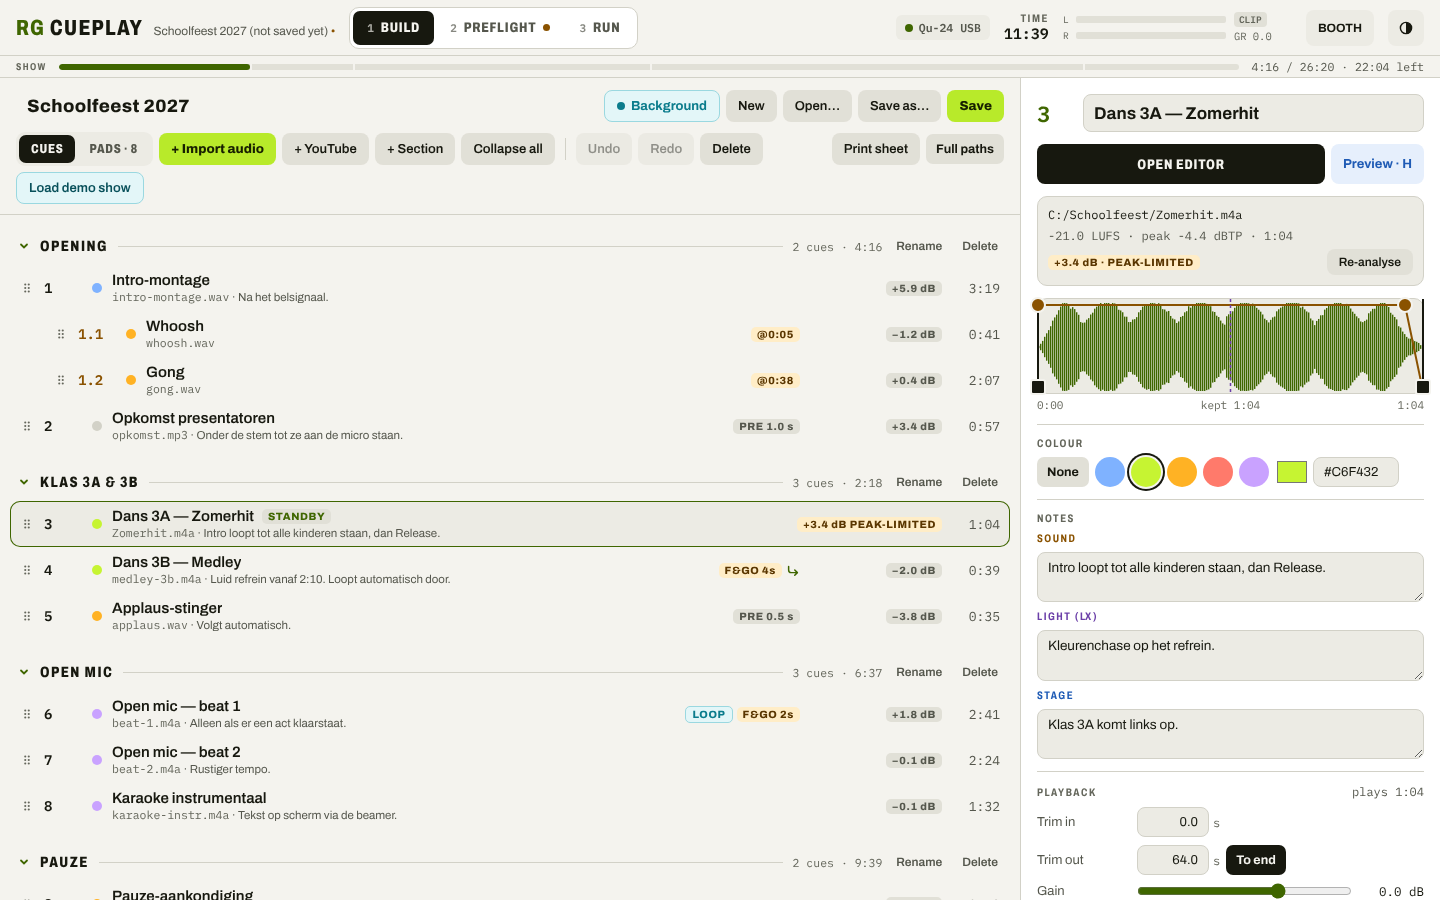
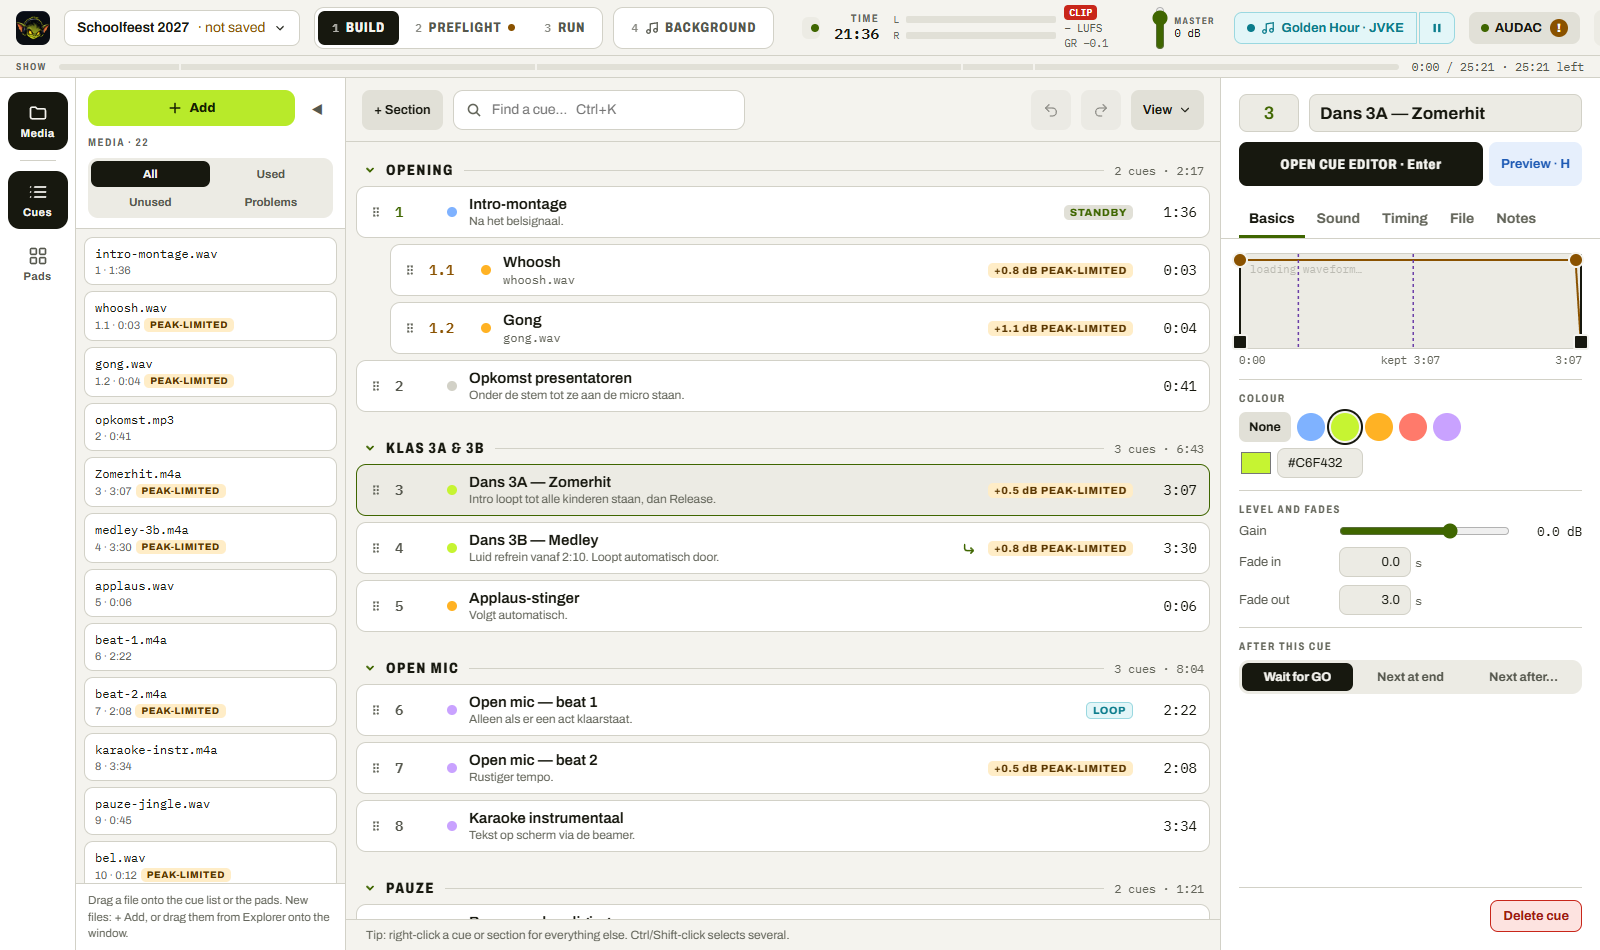
README for people who'll use it: what it does, a tour with fresh screenshots, keys, download link
Screenshots retaken from the current UI (browser mode, demo show, English); the October 26 set showed the old layout
and wasn't used anywhere. Developer notes moved below; release text matches 1.0 (builds are marked latest).
CLAUDE.md: Run keys are rebindable (RunView uses the keymap), inspector has a File tab.

diff --git a/README.md b/README.md
@@ -1,89 +1,174 @@
-# StageGremlin
+<p align="center">
+  <picture>
+    <source media="(prefers-color-scheme: dark)" srcset="docs/brand/stagegremlin-lockup-dark.png">
+    <img src="docs/brand/stagegremlin-lockup-light.png" alt="StageGremlin" width="520">
+  </picture>
+</p>
 
-A QLab-style cue player for Windows, made for school shows: build the show at home, check the rig in
-Preflight, and run it from the booth with the spacebar as GO. One stereo feed to the mixer (Qu-24 over USB).
+<p align="center">
+  <b>A cue player for school shows on Windows.</b><br>
+  Build the show at home, check the rig before the doors open, run it from the booth with the spacebar as GO.
+</p>
 
-- Spec: [`docs/brief.md`](docs/brief.md) (exported from the online brief)
-- How the parts talk: [`docs/ipc.md`](docs/ipc.md)
-- Notes for Claude Code: [`CLAUDE.md`](CLAUDE.md)
+<p align="center">
+  <a href="https://github.com/RareGoudvis/StageGremlin/releases/latest"><b>Download the latest build</b></a>
+  · Windows 10/11 · no admin rights needed
+</p>
 
-## First time on a Windows PC (once)
+![Run: what plays now, what's next, GO](docs/screenshots/run.png)
 
-You need admin rights for these installs, so do this on your home PC, not the school laptop.
+StageGremlin plays a list of sound cues, one GO at a time, into one stereo feed to the mixing desk (an Allen & Heath
+Qu-24 over USB at our school; any Windows output works). It's made for the people who actually run school shows:
+a teacher who set the show up, and on the night maybe a pupil or a parent who has never touched a sound desk.
 
-1. **Rust**: install from <https://rustup.rs> (`rustup-init.exe`, accept the defaults). When it asks for the
-   *Visual Studio C++ Build Tools*, let it install them (workload "Desktop development with C++").
+## What it does
+
+- **Every song equally loud.** Each file is measured when you add it (EBU R128) and matched to −14 LUFS, without
+  ever pushing a peak over −1 dBTP. A limiter on the output catches the rest.
+- **GO is the spacebar.** Esc stops everything with a fade; Esc twice is Panic. A GO lock-out (0.3–10 s) stops a
+  nervous double tap from skipping a cue.
+- **Cues that do things by themselves**: pre-wait, "next at end" or "next after n seconds", cues attached to a moment
+  inside another cue, play 1–5 times or loop, vamps (loop a part until you release it), and per cue what happens to
+  what's already playing: play on, stop, fade out or crossfade.
+- **Pads** for applause, a gong, a drum roll: keys 1–9 and 0, one-shot, toggle or loop.
+- **Fix it live**: Duck (U) drops the music while someone talks, Make next / Skip to (also for cues already played, if
+  someone pressed GO too early), emergency file swap, headphone preview, pause everything (P).
+- **Background music** for before the show and the break (YouTube, SoundCloud, Spotify… in their own window), lowered
+  automatically while a cue plays.
+- **Preflight** checks the rig before the doors open: output device, missing or unreadable files, test tones to set
+  the desk's gain.
+- **Big mode** and **Dumbo mode** for someone who has never run sound (see below).
+- AUDAC MTX zone control and a schedule for the school's speakers, a printed cue sheet, Dutch and English.
+
+## A quick tour
+
+**Build**: add files (or YouTube links), put them in order in sections, set fades and what happens next. Each cue is
+a card; the inspector on the right has the details.
+
+![Build: the cue list and the inspector](docs/screenshots/build.png)
+
+The Timing tab: pre-wait, trims, how many times it plays, and what happens to the others when this cue starts.
+
+![Inspector, Timing tab](docs/screenshots/build-timing.png)
+
+**Run** is locked (no editing during the show) and black for a dark booth. Above: now playing with its notes,
+up next with Make next / Skip to, GO, and a dock with pads, notes, background music and the log.
+
+**Big mode** (Ctrl+B): just what plays, what stands by and the rest of the show, as large as it goes.
+
+![Big mode](docs/screenshots/run-big.png)
+
+**Dumbo mode**: for a helper who has never run sound. One huge GO, Stop all, what plays now with a timeline, what's
+next ("starts by itself: don't press GO" when it follows on), and the rest of the show. Every other key does
+nothing; leaving takes a 3-second hold or a PIN.
+
+![Dumbo mode](docs/screenshots/dumbo.png)
+
+**Settings** save as you change them. What belongs to this laptop (output, language, shortcuts) stays on the laptop;
+what belongs to the show (levels, GO lock-out, background music) travels in the show file.
+
+![Settings](docs/screenshots/settings.png)
+
+## Using it
+
+1. Download `StageGremlin-portable.zip` from the [latest release](https://github.com/RareGoudvis/StageGremlin/releases/latest),
+   right-click it → Properties → **Unblock**, unzip, run `StageGremlin.exe`. Everything (settings, sign-ins) stays in
+   that folder, so you can carry it on a USB stick. Prefer an installer? Take `StageGremlin-setup.exe` instead.
+2. **Build**: + Add (Ctrl+I) your audio files, or drag them from Explorer onto the window. Save the show (Ctrl+S): the
+   show folder gets a `media/` folder with copies of every file, so the folder is all you need on the show laptop.
+3. **Preflight** on the day: pick the output, play the pink-noise tone and set the desk's channel so its meter sits
+   at 0. Fix anything red.
+4. **Run**: Space = GO.
+
+The app tells you when a newer build is on GitHub (banner in Build, or Settings › About). Nothing installs by itself.
+
+### Keys in Run
+
+| Key | What it does |
+|---|---|
+| Space (or Enter) | GO |
+| Esc · Esc Esc | Stop all (with a fade) · Panic (cut at once) |
+| S | Stop the cue that's playing |
+| U | Duck the playing cue (press again to bring it back) |
+| V | Release a vamp |
+| P | Pause / resume everything |
+| H | Preview the selected cue in the headphones |
+| Ctrl+K | Find a cue |
+| Ctrl+B | Big mode |
+| D · R | Background music: lower · restore |
+| 1–9, 0 | Pads |
+
+All keys can be changed in Settings › Shortcuts.
+
+## Status
+
+Version 1.0. A real show has been played with it over the laptop's aux output, and the AUDAC MTX88 zone control has
+been used on the school's own system. Still to come: one run on the Qu-24 over USB.
+[`docs/TESTING.md`](docs/TESTING.md) is the test plan.
+
+---
+
+## For developers
+
+Rust (playback engine on [kira](https://github.com/tesselode/kira), loudness with symphonia + ebur128) in a
+[Tauri 2](https://tauri.app) shell, UI in React + TypeScript (Vite, Zustand).
+
+- Spec: [`docs/brief.md`](docs/brief.md) · how the parts talk: [`docs/ipc.md`](docs/ipc.md) · notes for Claude Code:
+  [`CLAUDE.md`](CLAUDE.md)
+- `crates/engine/`: show model, playback, limiter, analysis, engine tests on a fake sound card
+- `src-tauri/`: engine thread, commands, output devices, background player windows, AUDAC
+- `src/`: the UI; texts per area in `src/lang/` (English + Dutch)
+
+### First time on a Windows PC
+
+You need admin rights for these installs, so do this on your own PC, not the school laptop.
+
+1. **Rust** from <https://rustup.rs> (`rustup-init.exe`, accept the defaults; let it install the Visual Studio C++
+   Build Tools, workload "Desktop development with C++").
 2. **Node.js 22 LTS** from <https://nodejs.org>.
-3. **WebView2** is already part of Windows 10/11. Nothing to do.
-4. Optional: **Git** (<https://git-scm.com>) if you want to put this on GitHub later.
+3. WebView2 is already part of Windows 10/11.
 
-## Run it
+Keep the project *outside* OneDrive (OneDrive and `node_modules`/`target` don't mix well).
 
-Unzip the project somewhere *outside* OneDrive (OneDrive and `node_modules`/`target` don't mix well), open a
-terminal in the folder, then:
+### Run and test
 
 ```
 npm install
-npm run tauri dev
+npm run tauri dev               # the app, with hot reload (first run compiles Rust for a few minutes)
+npm run dev                     # the UI alone in a browser: real sound via Web Audio, no Windows-only parts
+cargo test -p cueplay-engine    # playback tests on a fake sound card
+npx vitest run                  # UI logic tests
+npm run build                   # type-check + build the UI
 ```
 
-The first run compiles all the Rust code, which takes a few minutes. After that it starts in seconds and the
-UI reloads by itself when you change code.
+### Releases
 
-## Make the portable app
-
-```
-npm run tauri build
-```
-
-This gives you `target\release\StageGremlin.exe` (and an installer under `target\release\bundle\nsis\`).
-For the portable version, put the exe in a folder together with an empty file called `portable.txt`:
-settings and sign-ins are then stored next to the exe, in `data\`. Copy that folder to the show laptop.
-The show laptop needs no installs and no admin rights.
-
-## Check the engine without sound
-
-```
-cargo test -p cueplay-engine
-```
-
-Runs the playback tests (GO, follow cues, attached cues, passes, vamp, panic, save/open, loudness) on a fake
-sound card.
-
-## Keep building with Claude Code
-
-Open this folder in Claude Code and start with something like *"Read CLAUDE.md and docs/brief.md, then
-continue with the next milestone."* `CLAUDE.md` lists what's done and what's next.
-
-## Releases
-
-The code lives at `RareGoudvis/StageGremlin`. Releases are built on the laptop and uploaded to GitHub:
+Releases are built on the laptop and uploaded to GitHub:
 
 ```
 git push origin main
 powershell -ExecutionPolicy Bypass -File scripts/release.ps1
 ```
 
-This builds `StageGremlin-portable.zip` and `StageGremlin-setup.exe` (in `release-out\`) and publishes them as a
-pre-release `v<version>-build.<N>` on the repo's Releases page. Add `-NoPublish` to only build, `-FreshTools` to
-download yt-dlp and ffmpeg again. Needs the GitHub CLI logged in (`gh auth login`).
+This runs the checks (UI type-check + build, UI tests, Rust tests, clippy; if one fails, no release is made), builds
+`StageGremlin-portable.zip` and `StageGremlin-setup.exe` into `release-out\`, and publishes them as
+`v<version>-build.<N>` (from 1.0 on marked *latest*). `-NoPublish` only builds; `-FreshTools` downloads yt-dlp and
+ffmpeg again. Needs the GitHub CLI logged in (`gh auth login`) and the admin-password hash in `.env.local`
+(`node scripts/make-admin-hash.mjs`).
 
-Each build knows its own tag, so the app tells you when a newer build is on GitHub (banner in Build, or Settings ›
-About › Check for updates). Nothing installs by itself.
+Backup: **Actions → Build Windows → Run workflow** on GitHub builds the same thing in the cloud. Cloud builds have no
+shared admin password, so each install asks for its own.
 
-Portable: download the zip, right-click → Properties → Unblock, unzip, run `StageGremlin.exe`.
+### Keep building with Claude Code
 
-Backup: **Actions → Build Windows → Run workflow** on GitHub, or a push to the `release` branch, builds the same
-thing in the cloud. Plain pushes to `main` never start it. Cloud builds have no shared admin password (that hash
-lives only in `.env.local` on the laptop), so each install asks for its own.
-
-Both ways run the same mandatory checks first (UI type-check + build, UI tests, Rust tests, clippy); if one fails,
-no release is made.
+Open this folder in Claude Code and start with *"Read CLAUDE.md and docs/brief.md, then continue with the next
+milestone."* `CLAUDE.md` lists what's done and what's next.
 
 ## Bundled
 
-Release builds include yt-dlp, ffmpeg and [uBlock Origin Lite](https://github.com/uBlockOrigin/uBOL-home) (GPL-3.0, for
-the background player window: it cleans up the players' pages, not their audio/video ads). Each keeps its own licence.
+Release builds include yt-dlp, ffmpeg and [uBlock Origin Lite](https://github.com/uBlockOrigin/uBOL-home) (GPL-3.0,
+for the background player window: it cleans up the players' pages, not their audio/video ads). Each keeps its own
+licence.
 
 ## License
 

diff --git a/CLAUDE.md b/CLAUDE.md
@@ -76,7 +76,7 @@ explorer /select, WebView2 data dir, yt-dlp/ffmpeg) compiles but is untested.
 - Background player: WebView2 window per source, Windows audio-session volume fades, auto-duck, track list, per-show config.
 - UI (v2 layout, docs/ui-v2.md): File menu on the show name (incl. Open recent), Build rail Cues · Pads · Media,
   one toolbar (+ Add, search Ctrl+K, Undo/Redo, View menu), selection bar for 2+ cues, Add window (files / YouTube &
-  lists / pad / section), inspector tabs Basics · Sound · Timing · Notes, bulk edit, cut/copy/paste; cue editor
+  lists / pad / section), inspector tabs Basics · Sound · Timing · File · Notes, bulk edit, cut/copy/paste; cue editor
   (waveform handles, EQ/comp curves, preview), Preflight, Run (rail, now playing, up next, Make next, swap, dock),
   booth modes, print, full-page Settings grouped This laptop / This show / Tools (NL/EN, rebindable shortcuts),
   resume dialog. v2 layout is untested in the real app.
@@ -88,8 +88,8 @@ explorer /select, WebView2 data dir, yt-dlp/ffmpeg) compiles but is untested.
 - Update check (GitHub releases vs the build's own tag, banner outside Run) and the app icon from docs/brand/.
 - Browser mode (no Tauri): real sound through Web Audio (`src/lib/webAudioEngine.ts`); YouTube/background simulated.
 
-Next: run docs/TESTING.md on Windows, fix what breaks; Run keys (Space/Esc/S/U/V) aren't rebindable yet
-(RunView still reads fixed keys); M0 Widevine results decide which background sources stay.
+Next: run docs/TESTING.md on Windows, fix what breaks; M0 Widevine results decide which background sources stay.
+README.md is the public face (screenshots in docs/screenshots/, taken from browser mode with the demo show).
 
 ## Known limitations / next steps
 
